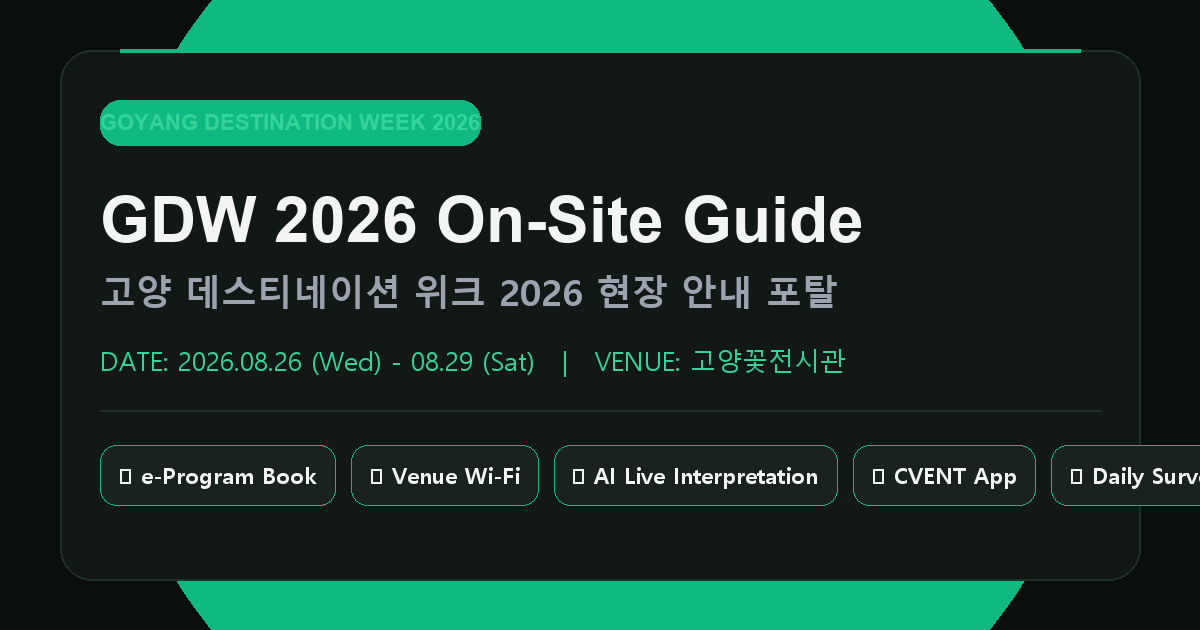
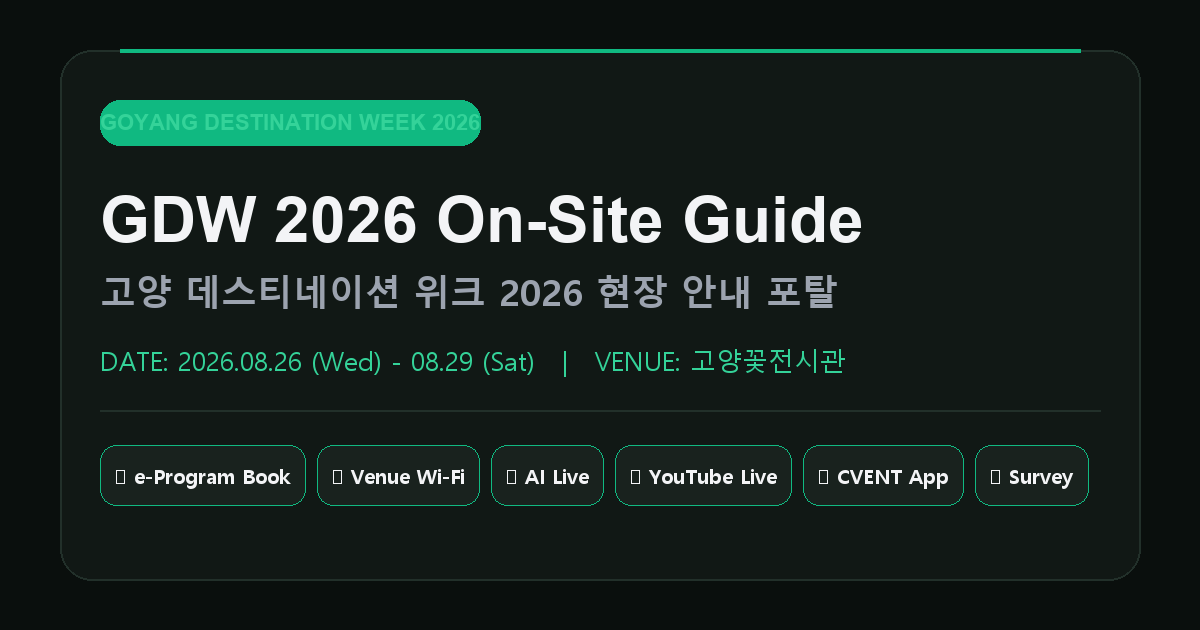
feat: add YouTube Live Streaming shortcut menu

Changed region(s): [[0.1542, 0.9048, 0.8633, 1.0], [0.1542, 0.0, 0.8633, 0.0905], [0.0925, 0.7238, 1.0, 0.7841]]

diff --git a/index.html b/index.html
@@ -4,14 +4,14 @@
   <meta charset="UTF-8">
   <meta name="viewport" content="width=device-width, initial-scale=1.0, maximum-scale=1.0, user-scalable=no">
   <title>GDW 2026 On-Site Guide | 고양 데스티네이션 위크 2026</title>
-  <meta name="description" content="고양 데스티네이션 위크 2026 현장 안내 포탈 (2026.08.26 - 08.29 고양꽃전시관) | e-프로그램북, 와이파이, AI 통역, 앱 다운로드, 만족도 조사">
+  <meta name="description" content="고양 데스티네이션 위크 2026 현장 안내 포탈 (2026.08.26 - 08.29 고양꽃전시관) | e-프로그램북, 와이파이, AI 통역, 유튜브 라이브, 앱 다운로드, 만족도 조사">
   <meta name="theme-color" content="#0a0f0d">
   
   <!-- Favicon Settings -->
-  <link rel="icon" type="image/svg+xml" href="./favicon.svg?v=2">
-  <link rel="icon" type="image/png" sizes="64x64" href="./favicon.png?v=2">
-  <link rel="shortcut icon" href="./favicon.png?v=2">
-  <link rel="apple-touch-icon" href="./favicon.png?v=2">
+  <link rel="icon" type="image/svg+xml" href="./favicon.svg?v=3">
+  <link rel="icon" type="image/png" sizes="64x64" href="./favicon.png?v=3">
+  <link rel="shortcut icon" href="./favicon.png?v=3">
+  <link rel="apple-touch-icon" href="./favicon.png?v=3">
 
   <!-- Open Graph / KakaoTalk / Facebook Meta Tags -->
   <meta property="og:type" content="website">
@@ -19,7 +19,7 @@
   <meta property="og:site_name" content="GDW 2026 On-Site Guide">
   <meta property="og:url" content="https://sureguydnic-jpg.github.io/gdw2026-onsite-guide/">
   <meta property="og:title" content="GDW 2026 On-Site Guide | 고양 데스티네이션 위크 2026">
-  <meta property="og:description" content="2026.08.26 - 08.29 고양꽃전시관 | e-프로그램북, 무료 와이파이, AI 통역, 앱 다운로드, 만족도 조사 바로가기">
+  <meta property="og:description" content="2026.08.26 - 08.29 고양꽃전시관 | e-프로그램북, 무료 와이파이, AI 통역, 유튜브 라이브 중계, 앱 다운로드, 만족도 조사">
   <meta property="og:image" content="https://sureguydnic-jpg.github.io/gdw2026-onsite-guide/og-image.png">
   <meta property="og:image:secure_url" content="https://sureguydnic-jpg.github.io/gdw2026-onsite-guide/og-image.png">
   <meta property="og:image:type" content="image/png">
@@ -30,7 +30,7 @@
   <meta name="twitter:card" content="summary_large_image">
   <meta name="twitter:url" content="https://sureguydnic-jpg.github.io/gdw2026-onsite-guide/">
   <meta name="twitter:title" content="GDW 2026 On-Site Guide | 고양 데스티네이션 위크 2026">
-  <meta name="twitter:description" content="2026.08.26 - 08.29 고양꽃전시관 | e-프로그램북, 무료 와이파이, AI 통역, 앱 다운로드, 만족도 조사 바로가기">
+  <meta name="twitter:description" content="2026.08.26 - 08.29 고양꽃전시관 | e-프로그램북, 무료 와이파이, AI 통역, 유튜브 라이브 중계, 앱 다운로드, 만족도 조사">
   <meta name="twitter:image" content="https://sureguydnic-jpg.github.io/gdw2026-onsite-guide/og-image.png">
 
   <!-- CSS Styles -->
@@ -121,7 +121,23 @@
         </div>
       </button>
 
-      <!-- 4. 📲 행사 공식 앱 | CVENT App Download -->
+      <!-- 4. 🔴 유튜브 라이브 실시간 중계 | YouTube Live Streaming -->
+      <button class="shortcut-card" id="btn-youtube-live" type="button">
+        <div class="card-left">
+          <div class="card-icon">🔴</div>
+          <div class="card-texts">
+            <div class="card-title-kr">유튜브 라이브 실시간 중계</div>
+            <div class="card-title-en">YouTube Live Streaming</div>
+          </div>
+        </div>
+        <div class="card-arrow">
+          <svg width="18" height="18" viewBox="0 0 24 24" fill="none" stroke="currentColor" stroke-width="2">
+            <polyline points="9 18 15 12 9 6"></polyline>
+          </svg>
+        </div>
+      </button>
+
+      <!-- 5. 📲 행사 공식 앱 | CVENT App Download -->
       <button class="shortcut-card" id="btn-official-app" type="button">
         <div class="card-left">
           <div class="card-icon">📲</div>
@@ -137,7 +153,7 @@
         </div>
       </button>
 
-      <!-- 5. 📝 만족도 조사 | Daily Survey (Accordion) -->
+      <!-- 6. 📝 만족도 조사 | Daily Survey (Accordion) -->
       <div class="accordion-card" id="accordion-survey">
         <div class="accordion-header" id="btn-survey-header">
           <div class="card-left">

diff --git a/app.js b/app.js
@@ -196,7 +196,40 @@ document.addEventListener('DOMContentLoaded', () => {
     });
   });
 
-  // 4. 📲 Official App (CVENT) Handler
+  // 4. 🔴 YouTube Live Streaming Handler
+  document.getElementById('btn-youtube-live').addEventListener('click', () => {
+    const yt = config.youtubeLive || {};
+    const instructionsHTML = (yt.instructions || [])
+      .map(item => `<div class="instruction-item">${item}</div>`)
+      .join('');
+
+    const actionButton = (yt.url && yt.url.trim() !== '') 
+      ? `<a href="${yt.url}" target="_blank" class="btn-primary-action" style="background: linear-gradient(135deg, #ef4444 0%, #dc2626 100%);">▶ 유튜브 라이브 시청하기</a>`
+      : `<button class="btn-primary-action" style="background: linear-gradient(135deg, #ef4444 0%, #dc2626 100%);" onclick="window.GDW_SHOW_TOAST('유튜브 라이브 방송 링크 연결 준비 중입니다.')">🔴 유튜브 라이브 바로가기 (준비중)</button>`;
+
+    openModal({
+      icon: '🔴',
+      title: '유튜브 라이브 실시간 중계',
+      subtitle: 'YouTube Live Streaming',
+      bodyHTML: `
+        <div class="info-box">
+          <p style="font-size: 0.85rem; color: var(--text-primary); line-height: 1.5;">
+            GDW 2026 주요 세션 현장을 <strong>실시간 유튜브 라이브 스트리밍</strong>으로 생중계합니다.
+          </p>
+        </div>
+        <div class="section-title" style="margin-bottom: 6px;">시청 안내 (Streaming Guide)</div>
+        <div class="instruction-list">
+          ${instructionsHTML}
+        </div>
+      `,
+      actionsHTML: `
+        ${actionButton}
+        <button class="btn-secondary-action" onclick="document.getElementById('modal-overlay').classList.remove('active')">닫기</button>
+      `
+    });
+  });
+
+  // 5. 📲 Official App (CVENT) Handler
   document.getElementById('btn-official-app').addEventListener('click', () => {
     const app = config.officialApp || {};
     const instructionsHTML = (app.instructions || [])
@@ -235,7 +268,7 @@ document.addEventListener('DOMContentLoaded', () => {
     });
   });
 
-  // 5. Accordion Toggle for Daily Survey
+  // 6. Accordion Toggle for Daily Survey
   surveyHeader.addEventListener('click', () => {
     surveyAccordion.classList.toggle('open');
   });

diff --git a/config.js b/config.js
@@ -46,7 +46,19 @@ window.GDW_CONFIG = {
     ]
   },
 
-  // 4. 📲 행사 공식 앱 | CVENT App Download
+  // 4. 🔴 실시간 생중계 | YouTube Live Streaming
+  youtubeLive: {
+    title: "🔴 유튜브 라이브 실시간 중계 | YouTube Live Streaming",
+    description: "GDW 2026 현장 세션을 유튜브 라이브로 시청하세요.",
+    // 추후 YouTube 라이브 스트리밍 URL
+    url: "", 
+    instructions: [
+      "1. 아래 버튼을 클릭하여 GDW 2026 공식 유튜브 라이브 채널에 접속합니다.",
+      "2. 세션별 실시간 생중계 및 다시보기(VOD)를 시청하실 수 있습니다."
+    ]
+  },
+
+  // 5. 📲 행사 공식 앱 | CVENT App Download
   officialApp: {
     title: "📲 행사 공식 앱 | CVENT App Download",
     appName: "CVENT Events App",
@@ -60,7 +72,7 @@ window.GDW_CONFIG = {
     ]
   },
 
-  // 5. 📝 만족도 조사 | Daily Survey
+  // 6. 📝 만족도 조사 | Daily Survey
   surveys: [
     {
       id: "day1",
